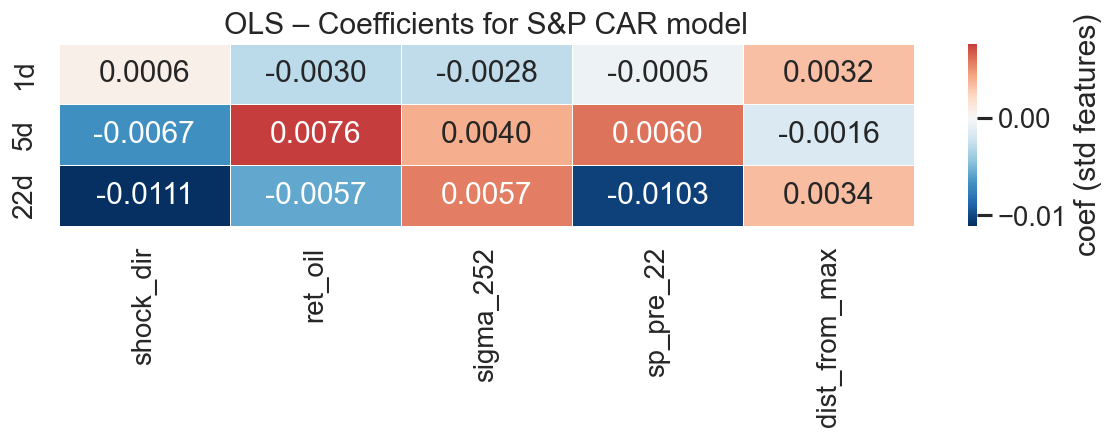
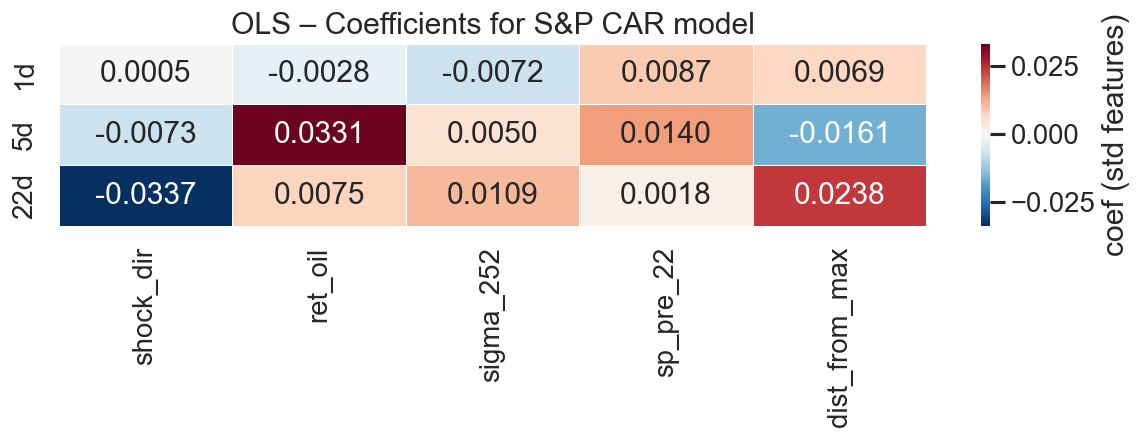
better visualization

diff --git a/analysis.py b/analysis.py
@@ -39,6 +39,8 @@ from sklearn.preprocessing import StandardScaler
 from sklearn.metrics import r2_score, mean_absolute_error
 from sklearn.model_selection import cross_val_score, LeaveOneOut, GridSearchCV
 from scipy import stats
+import matplotlib.dates as mdates
+import matplotlib.patches as mpatches
 
 try:
     from statsmodels.regression.quantile_regression import QuantReg
@@ -54,7 +56,7 @@ plt.rcParams["figure.dpi"] = 120
 # ── Parameters ────────────────────────────────────────────────────────────────
 
 ROLL_WINDOW   = 756
-MIN_GAP_DAYS  = 10
+MIN_GAP_DAYS  = 22   # no two events within 22 days — prevents overlapping event windows
 EST_START     = -270
 EST_END       = -30
 EVENT_PRE     = 5
@@ -179,13 +181,15 @@ candidates = df.index[df["shock_raw"]].tolist()
 def extremeness(i):
     return df.loc[i, "price"] if df.loc[i, "is_3y_high"] else -df.loc[i, "price"]
 
-candidates_sorted = sorted(candidates, key=lambda i: -extremeness(i))
+# Process chronologically; once an event is accepted, suppress the next
+# MIN_GAP_DAYS days forward (prevents overlapping event windows).
+candidates_sorted = sorted(candidates)   # chronological order
 accepted, suppressed = [], set()
 for idx in candidates_sorted:
     if idx in suppressed:
         continue
     accepted.append(idx)
-    for d in range(-MIN_GAP_DAYS, MIN_GAP_DAYS + 1):
+    for d in range(1, MIN_GAP_DAYS + 1):   # forward-only suppression
         suppressed.add(idx + d)
 
 df["shock"] = False
@@ -611,8 +615,8 @@ for col_i, h in enumerate(CAR_HORIZONS):
         _, p_pos = stats.ttest_1samp(dpos, 0)
         _, p_neg = stats.ttest_1samp(dneg, 0)
         ax.set_title(f"{'S&P' if asset=='sp' else 'XLE'} CAR({h}d)\n"
-                     f"+ mean={dpos.mean():.2f}% p={p_pos:.2f}  "
-                     f"− mean={dneg.mean():.2f}% p={p_neg:.2f}")
+                     rf"$+\mu$={dpos.mean():.2f}% p={p_pos:.2f}  "
+                     rf"$-\mu$={dneg.mean():.2f}% p={p_neg:.2f}")
         ax.set_xlabel("CAR (%)")
         ax.legend(fontsize=8)
 plt.suptitle("Distribution of Cumulative Abnormal Returns by shock type (pre-2026)")
@@ -935,5 +939,148 @@ ax.set_xlabel("Event number")
 ax.set_ylabel("Return (%)")
 plt.suptitle("LOO Backtest: Directional Signal → Long/Short S&P on Shock Days", fontsize=12)
 save("loo_strategy_pnl.png")
+
+# ── 7n. Full history: cumulative returns + shock events ───────────────────────
+
+xle_start_loc = df.loc[df["ret_xle"].notna()].index[0]
+sub_hist = df.loc[xle_start_loc:].copy().reset_index(drop=True)
+cum_sp_h  = (1 + sub_hist["ret_gspc"]).cumprod() * 100
+cum_xle_h = (1 + sub_hist["ret_xle"].fillna(0)).cumprod() * 100
+oil_idx_h = sub_hist["price"] / sub_hist["price"].iloc[0] * 100
+dates_h   = pd.to_datetime(sub_hist["date"])
+
+fig, axes_ = plt.subplots(3, 1, figsize=(20, 12), sharex=True)
+for ax, series, label, color in [
+    (axes_[0], cum_sp_h,  "S&P 500 (rebased 100)",    "navy"),
+    (axes_[1], cum_xle_h, "XLE  (rebased 100)",        "darkorange"),
+    (axes_[2], oil_idx_h, "Brent crude (rebased 100)", "sienna"),
+]:
+    ax.plot(dates_h, series.values, linewidth=1, color=color)
+    ax.axhline(100, color="black", linewidth=0.4, linestyle=":")
+    ax.set_ylabel(label, fontsize=10)
+    ax.set_yscale("log")
+
+# Vertical lines for each shock event
+for _, ev in events.iterrows():
+    d = pd.Timestamp(ev["date"])
+    c = "darkorange" if ev["shock_dir"] == 1 else "steelblue"
+    for ax in axes_:
+        ax.axvline(d, color=c, linewidth=0.7, alpha=0.5, linestyle="--")
+
+n_pos = int((events["shock_dir"] == 1).sum())
+n_neg = int((events["shock_dir"] ==-1).sum())
+pos_p = mpatches.Patch(color="darkorange", alpha=0.7, label=f"Positive shock (n={n_pos})")
+neg_p = mpatches.Patch(color="steelblue",  alpha=0.7, label=f"Negative shock (n={n_neg})")
+axes_[0].legend(handles=[pos_p, neg_p], fontsize=9, loc="upper left")
+
+axes_[-1].xaxis.set_major_locator(mdates.YearLocator(2))
+axes_[-1].xaxis.set_major_formatter(mdates.DateFormatter("%Y"))
+fig.autofmt_xdate()
+plt.suptitle(f"Cumulative Returns of S&P 500, XLE, and Brent Crude\n"
+             f"Oil Price Shock Events marked  (n={len(events)} events, log scale)",
+             fontsize=13)
+save("cumulative_returns_with_events.png")
+
+# ── 7o. 2026 zoom: market prices + model prediction lines ─────────────────────
+
+df_2026     = df[df["date"].dt.year >= 2026].copy().reset_index(drop=True)
+events_2026 = events[events["date"].dt.year >= 2026].copy()
+
+if len(df_2026) > 0 and len(events_2026) > 0:
+    oil_2026     = df_2026["price"] / df_2026["price"].iloc[0] * 100
+    sp_2026_cum  = (1 + df_2026["ret_gspc"].fillna(0)).cumprod() * 100
+    xle_2026_cum = (1 + df_2026["ret_xle"].fillna(0)).cumprod() * 100
+    dates_2026   = pd.to_datetime(df_2026["date"])
+
+    fig, axes_ = plt.subplots(3, 1, figsize=(14, 13),
+                              gridspec_kw={"height_ratios": [1, 1, 1.4]})
+
+    # Panel 1: Oil
+    axes_[0].plot(dates_2026, oil_2026, color="sienna", linewidth=1.5)
+    axes_[0].axhline(100, color="black", linewidth=0.4, linestyle=":")
+    axes_[0].set_ylabel("Brent crude (rebased 100)")
+
+    # Panel 2: S&P500 and XLE
+    axes_[1].plot(dates_2026, sp_2026_cum,  color="navy",       linewidth=1.5, label="S&P 500")
+    axes_[1].plot(dates_2026, xle_2026_cum, color="darkorange",  linewidth=1.5, label="XLE")
+    axes_[1].axhline(100, color="black", linewidth=0.4, linestyle=":")
+    axes_[1].set_ylabel("Price index (rebased 100)")
+    axes_[1].legend(fontsize=9, loc="lower left")
+
+    # Mark shock events on top two panels
+    for _, ev in events_2026.iterrows():
+        d   = pd.Timestamp(ev["date"])
+        c   = "darkorange" if ev["shock_dir"] == 1 else "steelblue"
+        lbl = ev["date"].strftime("%b %d")
+        for ax in axes_[:2]:
+            ax.axvline(d, color=c, linewidth=2, linestyle="--", alpha=0.85)
+            ax.annotate(lbl, xy=(d, 1), xycoords=("data", "axes fraction"),
+                        xytext=(4, -4), textcoords="offset points",
+                        fontsize=8, color=c, rotation=90, va="top")
+
+    axes_[0].xaxis.set_major_locator(mdates.WeekdayLocator(interval=2))
+    axes_[0].xaxis.set_major_formatter(mdates.DateFormatter("%b %d"))
+    axes_[1].xaxis.set_major_locator(mdates.WeekdayLocator(interval=2))
+    axes_[1].xaxis.set_major_formatter(mdates.DateFormatter("%b %d"))
+    for ax in axes_[:2]:
+        ax.tick_params(axis="x", rotation=30)
+
+    # Panel 3: actual CAR path + model prediction lines per event
+    ax_car = axes_[2]
+    ax_car.axhline(0, color="black", linewidth=0.9)
+    ax_car.axvline(0, color="black", linewidth=1.2, linestyle="--", alpha=0.5)
+    ax_car.set_xlabel("Days relative to shock day")
+    ax_car.set_ylabel("S&P Cumulative Abnormal Return (%)")
+
+    x_full    = np.arange(-EVENT_PRE, EVENT_POST + 1)
+    ev_colors = ["#1f77b4", "#ff7f0e", "#2ca02c"]
+    model_styles = [
+        ("OLS",   "forestgreen", "--",  "o"),
+        ("Ridge", "crimson",     "-.",  "s"),
+        ("Lasso", "purple",      ":",   "^"),
+    ]
+
+    for i, (_, ev) in enumerate(events_2026.iterrows()):
+        ec      = ev_colors[i % len(ev_colors)]
+        ev_lbl  = ev["date"].strftime("%b %d")
+
+        # Actual CAR path
+        ar = ev.get("_ar_sp")
+        if ar is not None:
+            try:
+                ar_arr   = np.asarray(ar, dtype=float)
+                car_path = np.cumsum(ar_arr)
+                if t0 > 0:
+                    car_path = car_path - car_path[t0 - 1]
+                ax_car.plot(x_full, car_path * 100, color=ec, linewidth=2.5,
+                            label=f"Actual  {ev_lbl}", zorder=5)
+            except Exception:
+                pass
+
+        # Model predictions (piecewise lines at 0 → 1d → 5d → 22d)
+        test_row = test[test["date"] == ev["date"]]
+        if len(test_row) == 0:
+            continue
+        tr = test_row.iloc[0]
+        for name, mc, ms, mk in model_styles:
+            pred_x = [0] + list(CAR_HORIZONS)
+            pred_y = [0.0]
+            for h in CAR_HORIZONS:
+                col = f"car_sp_{h}_pred_{name}"
+                v   = tr[col] if col in tr.index else np.nan
+                pred_y.append(float(v) * 100 if pd.notna(v) else np.nan)
+            valid = [(px, py) for px, py in zip(pred_x, pred_y) if not np.isnan(py)]
+            if len(valid) > 1:
+                pxv, pyv = zip(*valid)
+                ax_car.plot(pxv, pyv, color=mc, linewidth=1.6, linestyle=ms,
+                            marker=mk, markersize=7, alpha=0.85,
+                            label=f"{name}  {ev_lbl}")
+
+    ax_car.legend(fontsize=8, ncol=2, loc="upper left")
+    ax_car.set_xlim(-EVENT_PRE - 0.5, EVENT_POST + 0.5)
+    ax_car.set_title("S&P 500 CAR path: actual (solid) vs model predictions (dashed)")
+
+    plt.suptitle("2026: Oil Shocks — Market Evolution and Model Predictions", fontsize=13)
+    save("market_2026_with_predictions.png")
 
 print(f"\nAll plots saved to ./{OUTDIR}/")

diff --git a/README.md b/README.md
@@ -8,9 +8,15 @@
 
 This memo documents the empirical approach taken to answer the core project question:
 
-> *How do equity markets react to oil price shocks, and can we predict that reaction?*
+> Model market reaction to oil price shocks. Use events prior to 2026 for training and testing, then compare the model’s predictions for this year’s events with the actual behavior of the markets affected.
 
 The analysis runs from December 1998 (XLE inception) through April 16, 2026, using daily Brent crude, S&P 500, and all 11 SPDR sector ETFs. All code is in `analysis.py`; all plots are in `plots_event_study/`.
+
+---
+
+## 0. Full-History Overview
+
+![Cumulative returns with shock events](plots_event_study/cumulative_returns_with_events.png)
 
 ---
 
@@ -37,6 +43,8 @@ Consecutive shock days within a 10-trading-day window are collapsed into one eve
 ## 2. Demand vs. Supply Shock Classification
 
 Following Kilian & Park (2009), we classify each shock using the **contemporaneous S&P 500 return** on the shock day:
+
+> **check citation**
 
 ```
 shock_concordance = sign(ret_oil) × sign(ret_S&P)
@@ -241,6 +249,8 @@ Despite the caveats, 61% directional accuracy well above 50% suggests the **comb
 ---
 
 ## 11. Out-of-Sample: 2026 Events
+
+![2026 market and predictions](plots_event_study/market_2026_with_predictions.png)
 
 ![2026 predictions vs actuals](plots_event_study/predictions_2026.png)
 
